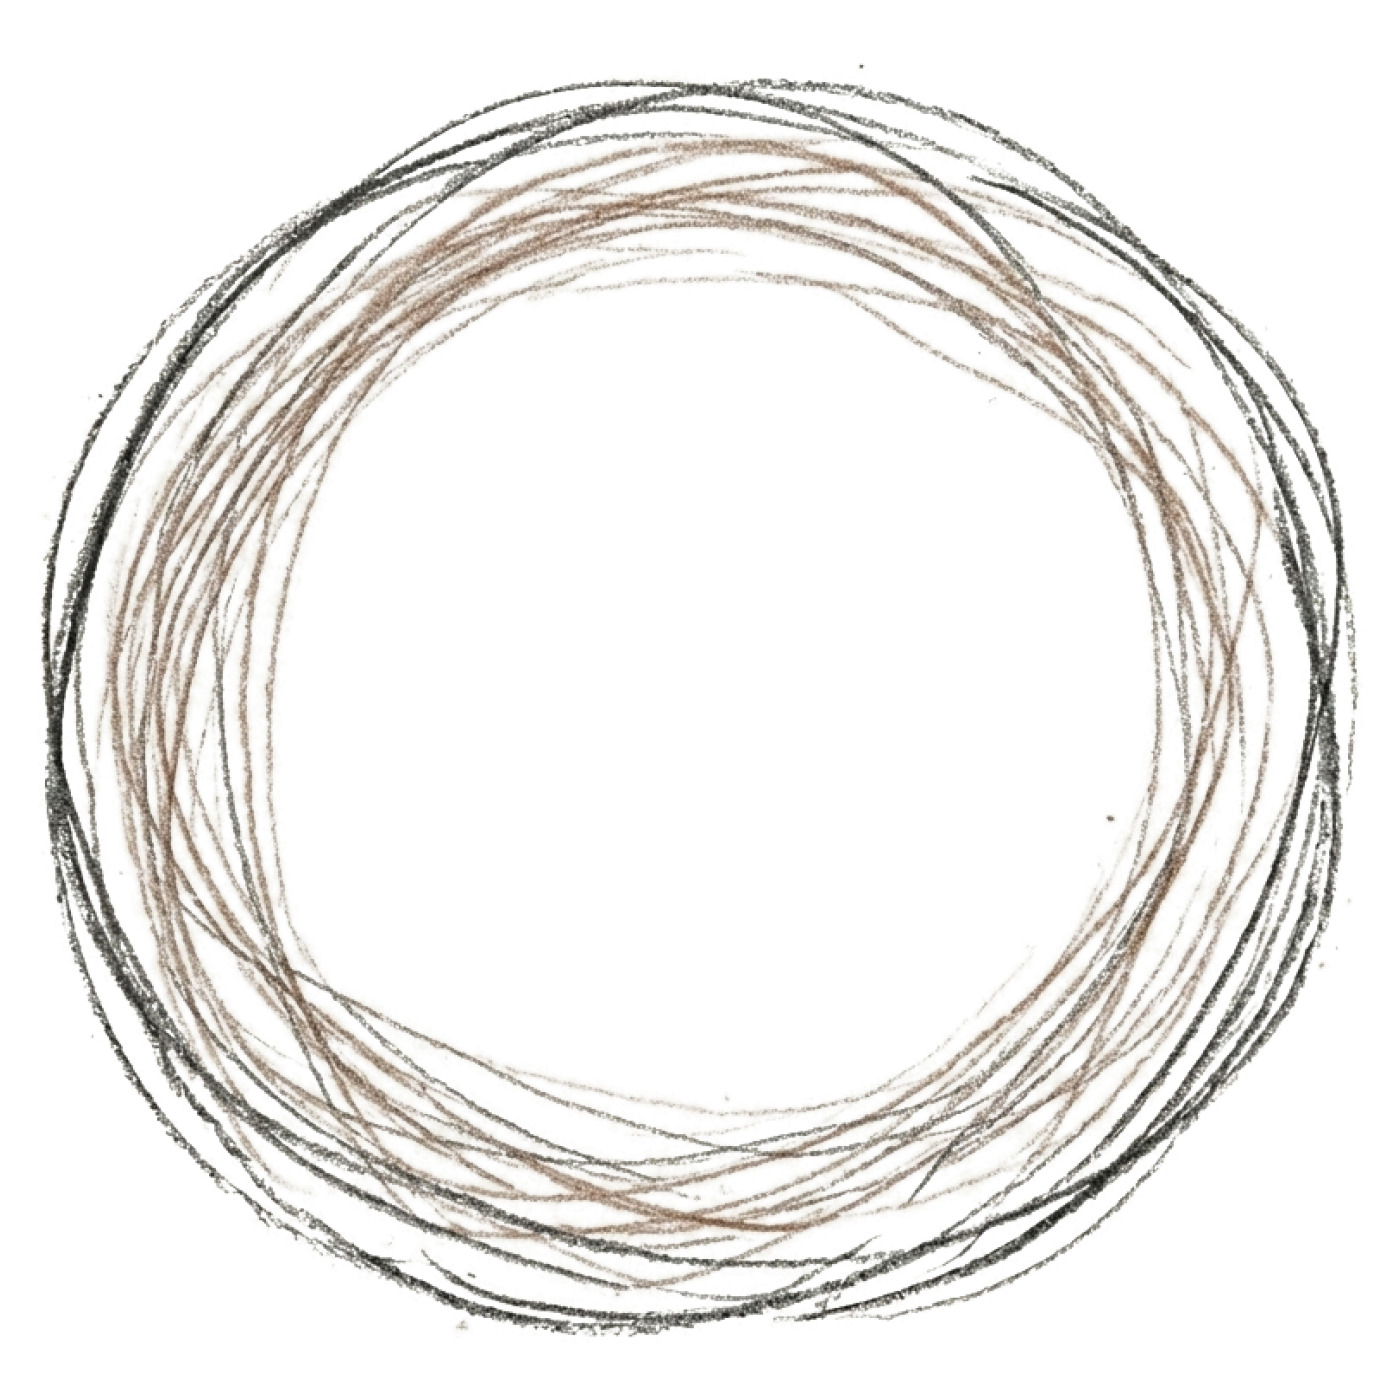
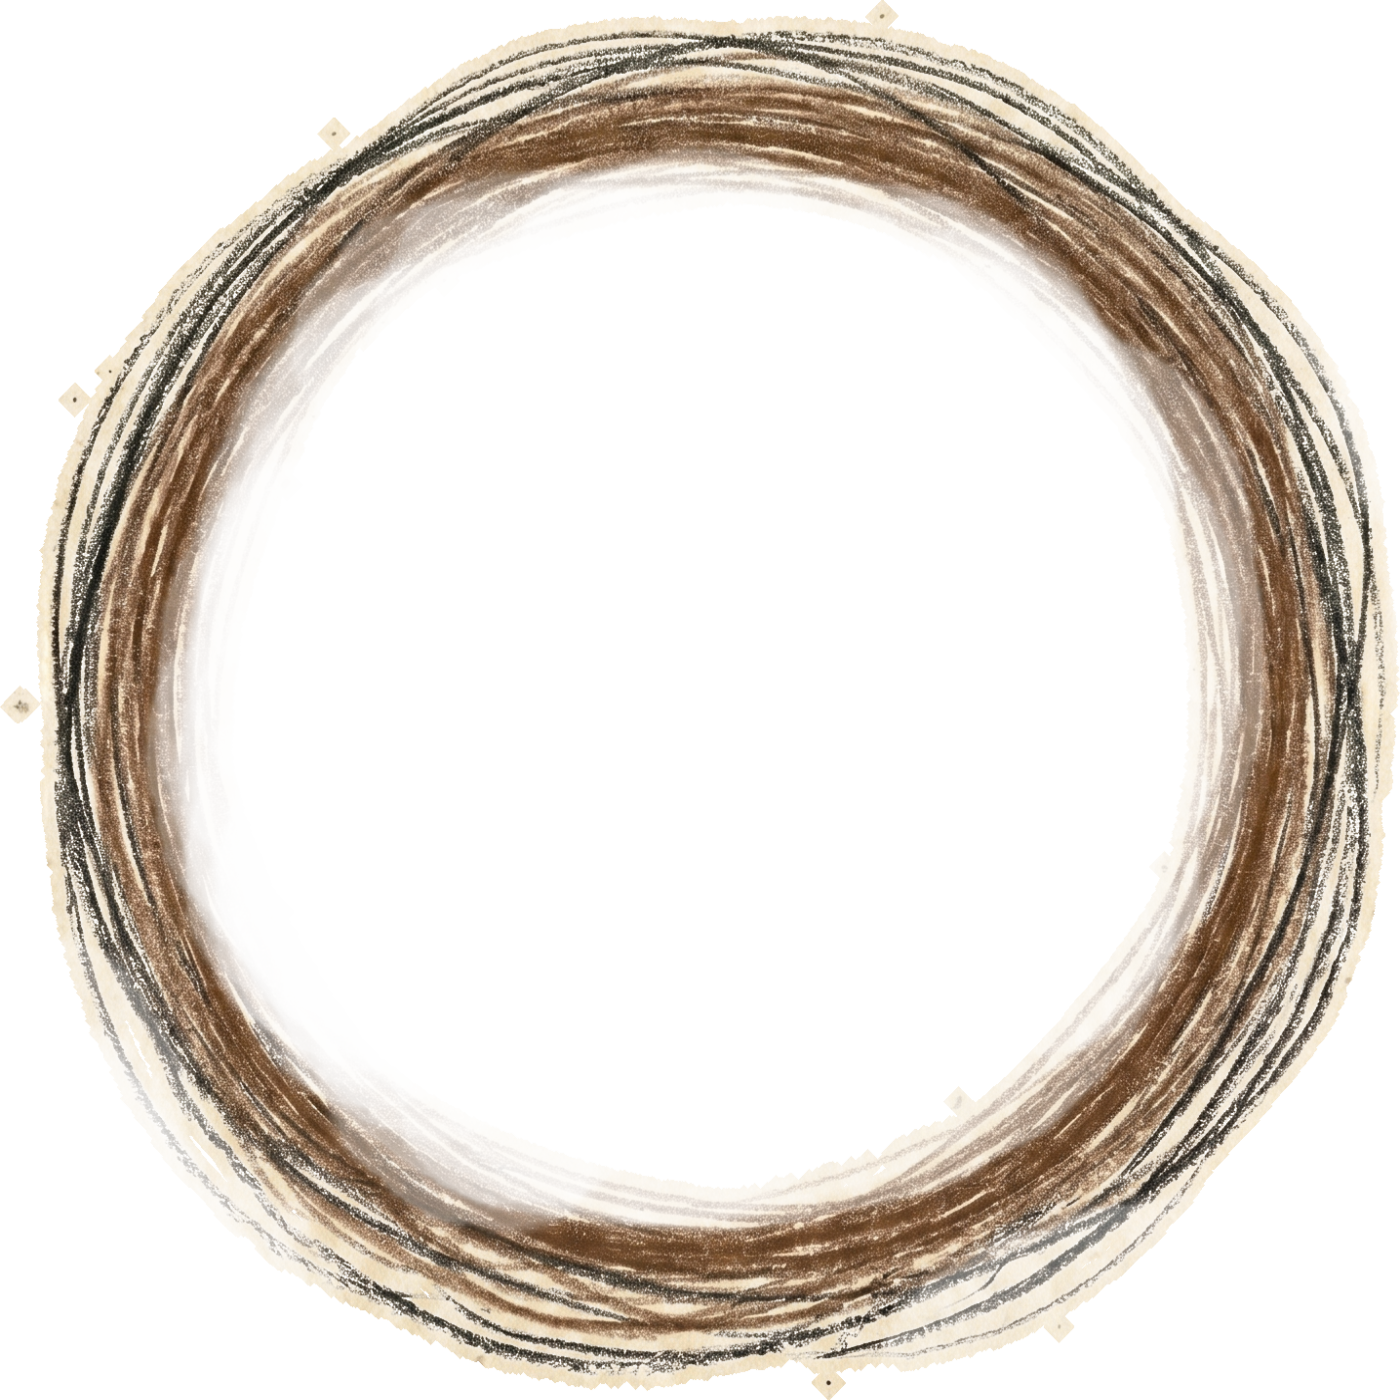
Hub centre: revert to PNG with new transparent sketch_circle (video had a white bg that wouldn't blend)

diff --git a/src/components/ui/radial-hub.tsx b/src/components/ui/radial-hub.tsx
@@ -105,21 +105,16 @@ export function RadialHub({ hasPlans = false }: { hasPlans?: boolean }) {
           onClick={onClick}
           className="group relative block h-full w-full touch-pan-x active:scale-95"
         >
-          {/* Hand-drawn animated sketch loop as the centre blob. The video
-              has a light/cream background; `mix-blend-mode: multiply` lets
-              the dark pencil strokes "stamp" onto the parchment while the
-              white pixels effectively become transparent — no alpha channel
-              required, so the asset stays a tiny H.264 MP4 instead of a
-              huge WebM/alpha file. Breathing scale is on the wrapper. */}
+          {/* Hand-drawn CHARCOAL sketch circle as the centre blob. PNG with
+              a transparent background so the parchment shows through; the
+              breathing scale keeps the focal point feeling alive. */}
           <span className="hub-breathe absolute inset-0" aria-hidden>
-            <video
-              src="/decor/frames/sketch_circle.mp4"
-              autoPlay
-              muted
-              playsInline
-              loop
-              preload="auto"
-              style={{ mixBlendMode: "multiply", filter: "none" }}
+            {/* eslint-disable-next-line @next/next/no-img-element */}
+            <img
+              src="/decor/frames/sketch_circle.png"
+              alt=""
+              aria-hidden
+              style={{ filter: "none" }}
               className="h-full w-full select-none object-contain"
             />
           </span>